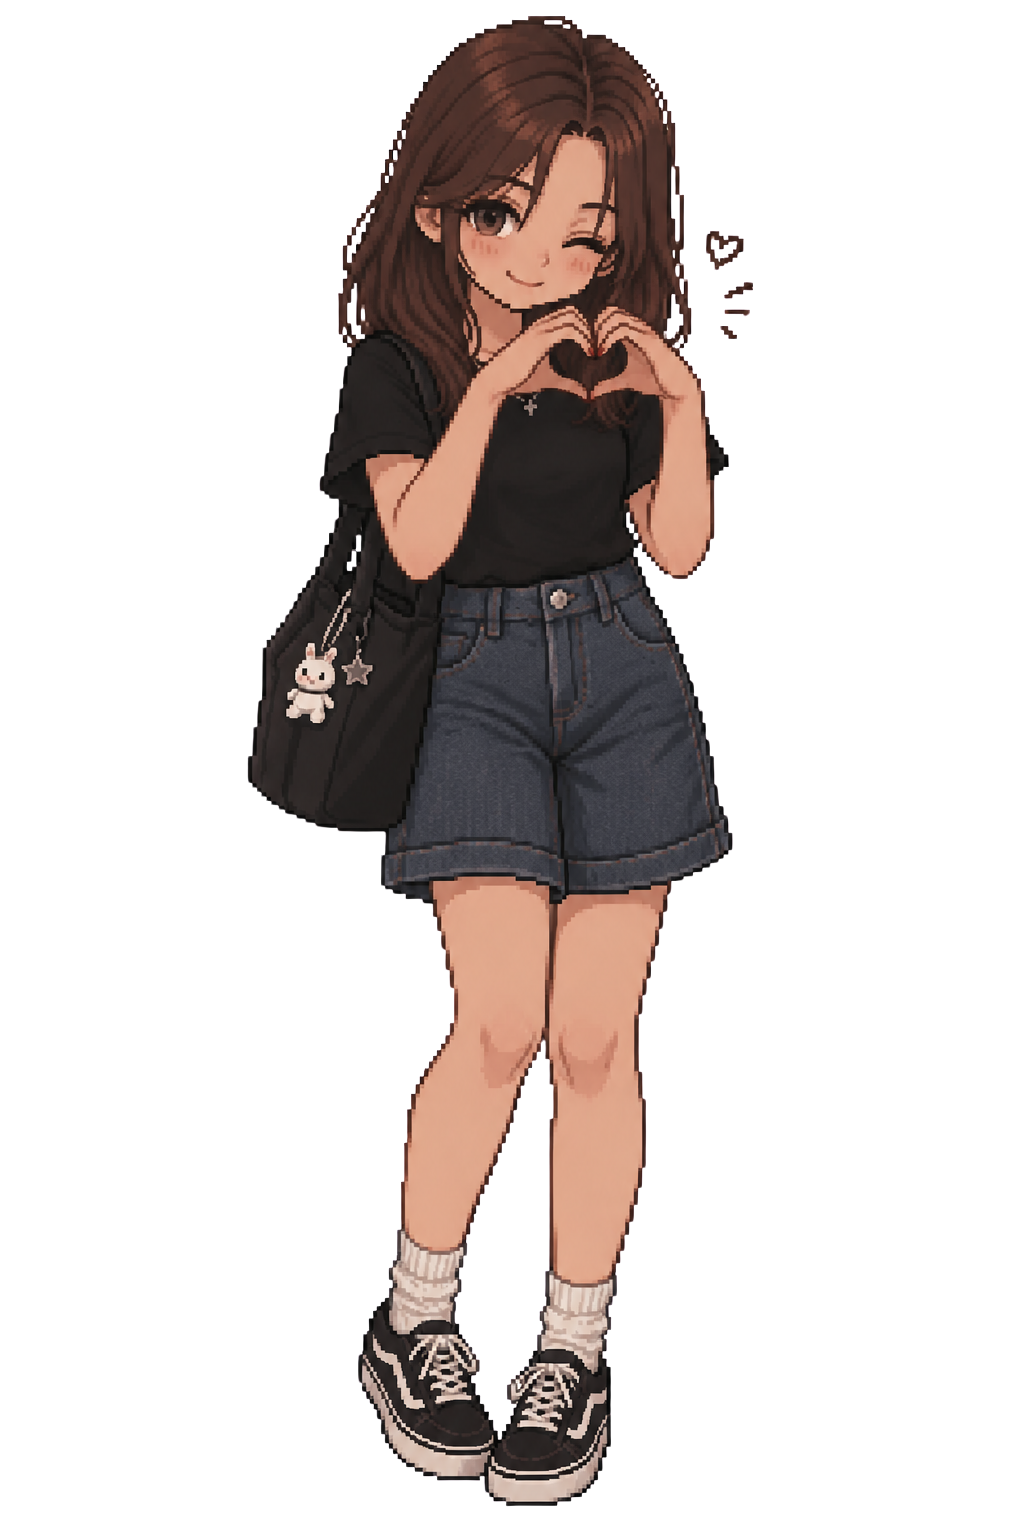
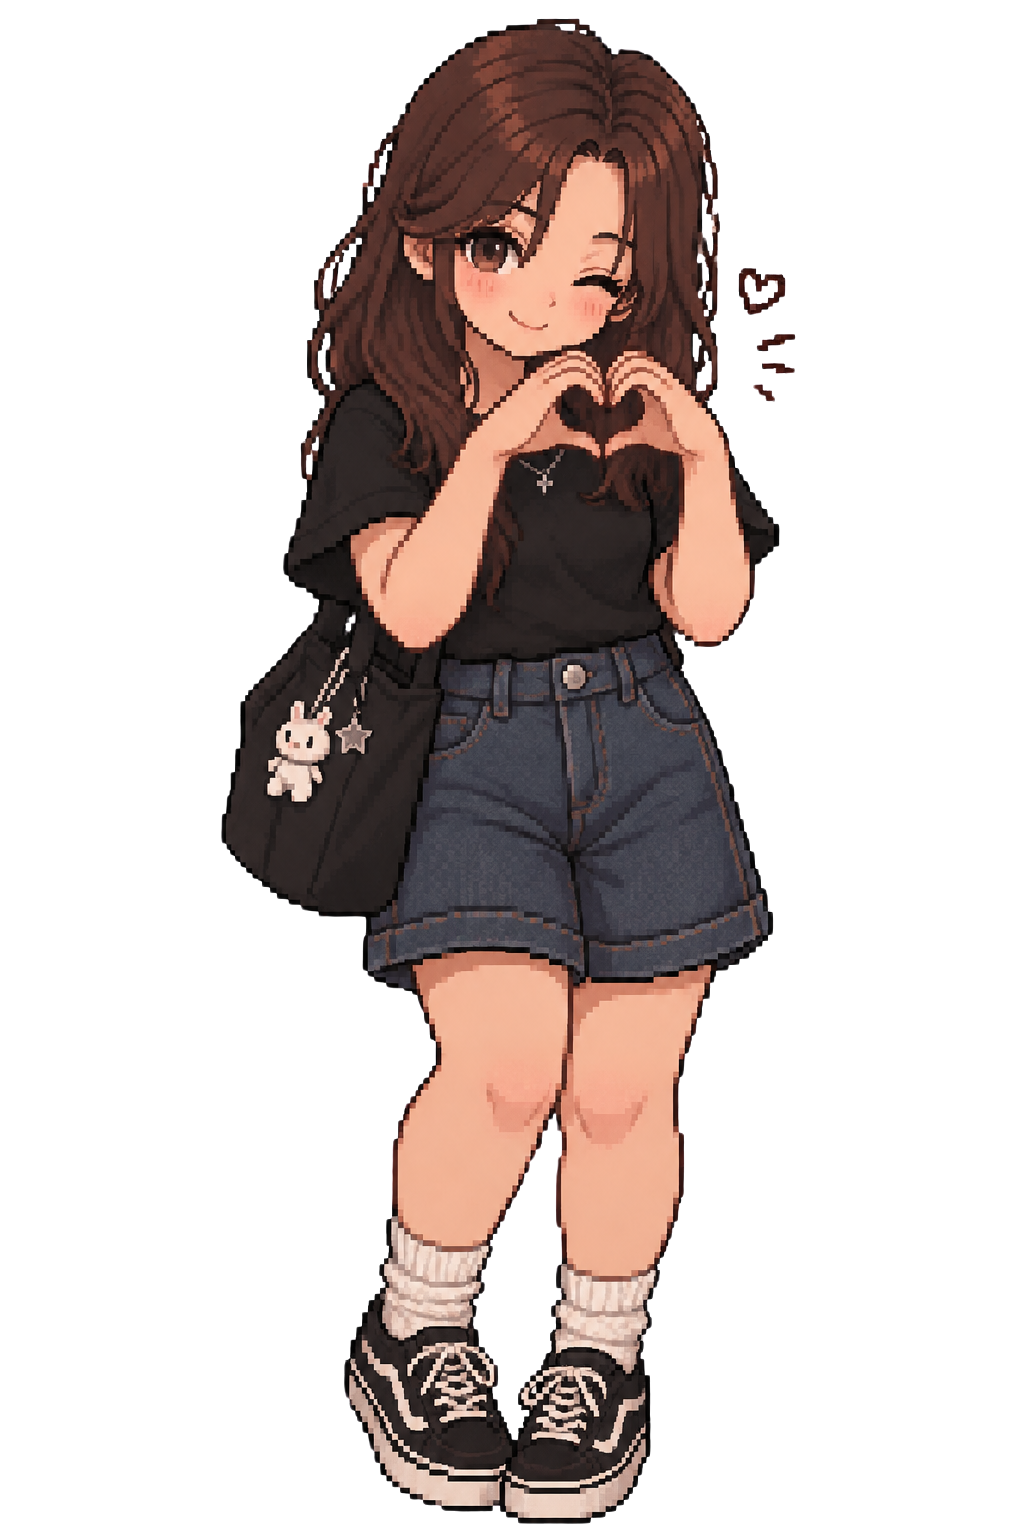
Use updated Duygu family sprite in Scene 7

Changed region(s): [[0.2188, 0.0, 0.7812, 1.0]]

diff --git a/src/game/data/characterScale.js b/src/game/data/characterScale.js
@@ -22,7 +22,7 @@ export const VISIBLE_ALPHA_HEIGHT = {
   soobinNormal: 508,
   yeonjun: 731,
   yeonbinHug: 1407,
-  familyDuygu: 1491,
+  familyDuygu: 1506,
   familyYurin: 1449,
   familyBurce: 1473,
   familyDilara: 1444,

diff --git a/src/game/data/scene07.js b/src/game/data/scene07.js
@@ -50,7 +50,7 @@ export const SCENE_07 = {
       x: 490,
       y: 690,
       scale: sc(VISIBLE_ALPHA_HEIGHT.familyDuygu),
-      originY: 0.981,
+      originY: 0.992,
     },
     {
       id: 'yurin',
